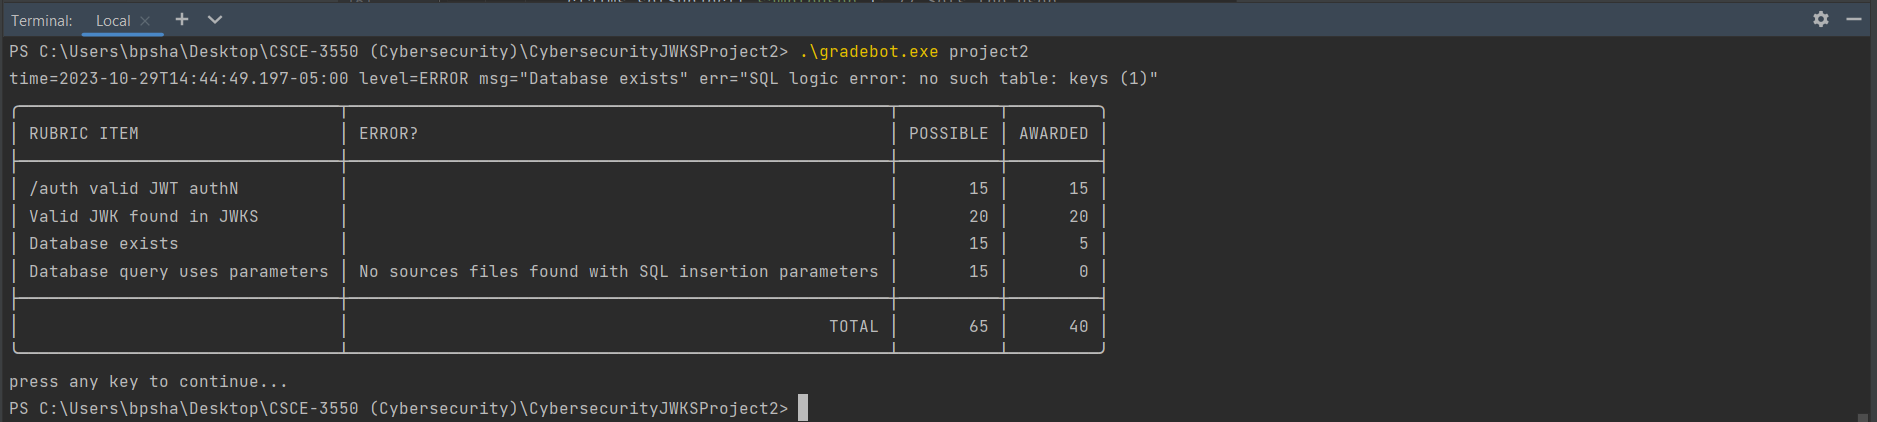
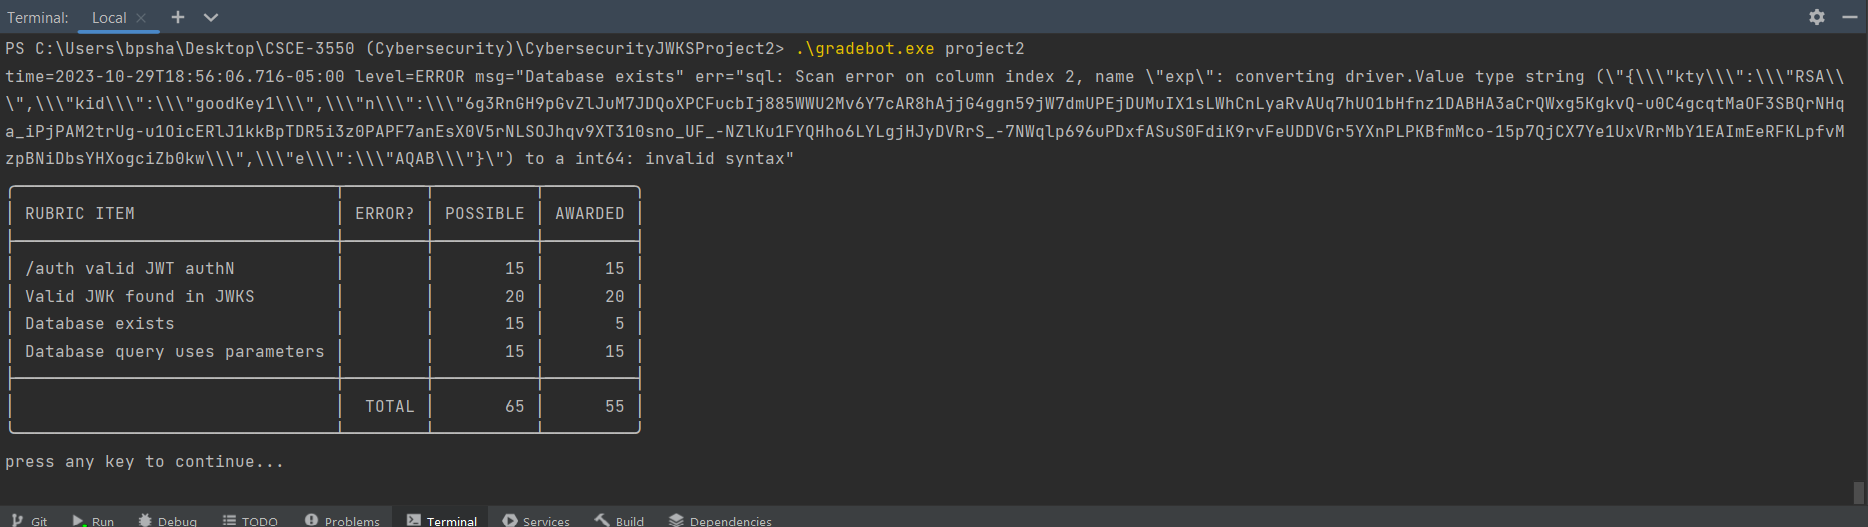
Modifications to creating the database by creating catch areas and private variables.

diff --git a/src/main/java/JWKSServer.java b/src/main/java/JWKSServer.java
@@ -46,7 +46,7 @@ import io.jsonwebtoken.security.Keys;
 import org.jose4j.jwk.PublicJsonWebKey;
 
 public class JWKSServer {
-    //private static final String SECRET_KEY = "your-secret-key"; // Change this to your own secret key
+    //private static final String SECRET_KEY = "your-secret-key"; // Secret key
     private static RsaJsonWebKey jwk = null;
     private static RsaJsonWebKey expiredJWK = null;
     private static Connection c = null; // Private variable for the P2 database connection
@@ -87,7 +87,7 @@ public class JWKSServer {
         server.createContext("/auth", new AuthHandler()); // Creates the authenticator
         server.setExecutor(null); // Creates a default executor
         server.start();
-        System.out.println("Server is running on port 8080....."); // Testing
+        System.out.println("Server is running on port 8080....."); // Testing the server
     }
 
     static class JWKSHandler implements HttpHandler {
@@ -102,8 +102,10 @@ public class JWKSServer {
             // P2: Generates a new key pair
             //RsaJsonWebKey newKeyPair = RsaJwkGenerator.generateJwk(2048);
             //newKeyPair.setKeyId("newKey1");
+
             // P2: Stores the new key pair in the database
             StoreKeyPairInDatabase(jwk);
+            System.out.println("Got past the storing part"); // Testing
             // P2: Generates a JSON Web Key Set (JWKS) response
             //JsonWebKeySet jsonWebKeySet = new JsonWebKeySet(newKeyPair);
             //String jwks = jsonWebKeySet.toJson();
@@ -131,6 +133,7 @@ public class JWKSServer {
             //RsaJsonWebKey keyPair = GetKeyPairFromDatabase(keyId);
             PublicJsonWebKey keyPair = GetKeyPairFromDatabase(keyId);
 
+            // P2: Checks if the key pair is null
             /*if (keyPair == null) {
                 // Handles the case when the key pair is not found in the database
                 h.sendResponseHeaders(404, -1); // 404 means Not Found
@@ -148,7 +151,7 @@ public class JWKSServer {
 
             JsonWebSignature jws = new JsonWebSignature();
             jws.setKeyIdHeaderValue(jwk.getKeyId());
-            jws.setKey(jwk.getPrivateKey());
+            jws.setKey(jwk.getPrivateKey()); // Sets the key as private
 
             // Checks for the expired query parameter
             if (h.getRequestURI().getQuery() != null && h.getRequestURI().getQuery().contains("expired=true")) {
@@ -156,7 +159,7 @@ public class JWKSServer {
                 expirationTime.addSeconds(-10 * 60); // Subtracts 10 minutes
                 claims.setExpirationTime(expirationTime);
                 jws.setKeyIdHeaderValue(expiredJWK.getKeyId());
-                jws.setKey(expiredJWK.getPrivateKey());
+                jws.setKey(expiredJWK.getPrivateKey()); // Sets this expiry as private
             }
 
             jws.setPayload(claims.toJson()); // Sets the payload
@@ -174,7 +177,7 @@ public class JWKSServer {
             h.sendResponseHeaders(200, jwt.length()); // 200 means OK
             OutputStream os = h.getResponseBody();
             os.write(jwt.getBytes());
-            os.close();
+            os.close(); // Closes the output stream so that it does not get in the way
         }
     }
 
@@ -182,13 +185,11 @@ public class JWKSServer {
         // P2 function: This function stores the key pair into the SQLite database
         if (c != null) {
             try {
-                String insertQuery = "INSERT INTO keys (key, exp) VALUES (?)";
-                //String insertQuery = "INSERT INTO keys (kid, key) VALUES (?, ?)";
+                String insertQuery = "INSERT INTO keys (key, exp) VALUES (?, ?)"; // Insert query
                 PreparedStatement preparedStatement = c.prepareStatement(insertQuery);
                 preparedStatement.setString(1, keyPair.getKeyId());
                 preparedStatement.setString(2, keyPair.toJson());
-
-                preparedStatement.executeUpdate();
+                preparedStatement.executeUpdate(); // Executes the insert into the database
                 preparedStatement.close();
                 System.out.println("Key pair stored in the database.");
             } catch (SQLException e) {
@@ -202,10 +203,12 @@ public class JWKSServer {
         // P2 function: This function gets the key pair from the SQLite database
         if (c != null) {
             try {
-                String selectQuery = "SELECT key FROM keys WHERE kid = ?";
-                PreparedStatement preparedStatement = c.prepareStatement(selectQuery);
+                String selectQuery = "SELECT key FROM keys WHERE exp = ?"; // Select query
+                //String selectQuery = "SELECT key FROM keys WHERE key = ?";
+                //String selectQuery = "SELECT key FROM keys WHERE kid = ?";
+                PreparedStatement preparedStatement = c.prepareStatement(selectQuery); // Prepares for the statement to be executed
                 preparedStatement.setString(1, keyId);
-                ResultSet resultSet = preparedStatement.executeQuery();
+                ResultSet resultSet = preparedStatement.executeQuery(); // Executes the select statement
 
                 if (resultSet.next()) {
                     String keyJson = resultSet.getString("key");
@@ -221,126 +224,3 @@ public class JWKSServer {
         return null;
     }
 }
-
- /*   private static void StoreKeyPairInDatabase(KeyPair keyPair) {
-        // P2 function: This function stores the key pair into the database
-        Connection conn = null;
-        try {
-            conn = DriverManager.getConnection("jdbc:sqlite:totally_not_my_privateKeys.db"); // Connects with the db file
-            if (conn != null) {
-                RSAPublicKey publicKey = (RSAPublicKey) keyPair.getPublic();
-                String modulus = Base64.getUrlEncoder().withoutPadding()
-                        .encodeToString(publicKey.getModulus().toByteArray());
-                String exponent = Base64.getUrlEncoder().withoutPadding()
-                        .encodeToString(publicKey.getPublicExponent().toByteArray());
-
-                String insertQuery = "INSERT INTO keys (modulus, exponent) VALUES (?, ?)";
-                try (PreparedStatement pstmt = conn.prepareStatement(insertQuery)) {
-                    pstmt.setString(1, modulus);
-                    pstmt.setString(2, exponent);
-                    pstmt.executeUpdate();
-                }
-            }
-        } catch (SQLException e) {
-            e.printStackTrace();
-        } finally {
-            try {
-                if (conn != null) {
-                    conn.close();
-                }
-            } catch (SQLException e) {
-                e.printStackTrace();
-            }
-        }
-    }
-    private static KeyPair GetKeyPairFromDatabase() {
-        // P2 function: This function gets the key pair from the database
-        Connection conn = null;
-        try {
-            conn = DriverManager.getConnection("jdbc:sqlite:totally_not_my_privateKeys.db"); // Connects with the db file
-            if (conn != null) {
-                String selectQuery = "SELECT modulus, exponent FROM keys";
-                try (Statement stmt = conn.createStatement(); ResultSet rs = stmt.executeQuery(selectQuery)) {
-                    if (rs.next()) {
-                        byte[] modulusBytes = Base64.getUrlDecoder().decode(rs.getString("modulus"));
-                        byte[] exponentBytes = Base64.getUrlDecoder().decode(rs.getString("exponent"));
-
-                        RSAPublicKeySpec publicKeySpec = new RSAPublicKeySpec(new BigInteger(1, modulusBytes), new BigInteger(1, exponentBytes));
-
-                        KeyFactory keyFactory = KeyFactory.getInstance("RSA");
-                        PublicKey publicKey = keyFactory.generatePublic(publicKeySpec);
-
-                        // You need the corresponding private key to create a full KeyPair,
-                        // but since this is just for verifying JWT, you only need the public key.
-                        return new KeyPair(publicKey, null);
-                    }
-                } catch (NoSuchAlgorithmException e) { // This catch clause is here for getInstance()
-                    throw new RuntimeException(e);
-                }
-            }
-        } catch (SQLException | InvalidKeySpecException e) { // Catch clauses for these two things
-            e.printStackTrace();
-        } finally {
-            try {
-                if (conn != null) {
-                    conn.close();
-                }
-            } catch (SQLException e) {
-                e.printStackTrace();
-            }
-        }
-        return null;
-    }
-}*/
-
-
-/*import java.sql.Connection;
-import java.sql.DriverManager;
-import java.sql.ResultSet;
-import java.sql.SQLException;
-import java.sql.Statement;
-
-public class JWKSServer {
-    public static void main(String[] args)
-    {
-        Connection connection = null;
-        try
-        {
-            // create a database connection
-            connection = DriverManager.getConnection("jdbc:sqlite:sample.db");
-            Statement statement = connection.createStatement();
-            statement.setQueryTimeout(30);  // set timeout to 30 sec.
-
-            statement.executeUpdate("drop table if exists person");
-            statement.executeUpdate("create table person (id integer, name string)");
-            statement.executeUpdate("insert into person values(1, 'leo')");
-            statement.executeUpdate("insert into person values(2, 'yui')");
-            ResultSet rs = statement.executeQuery("select * from person");
-            while(rs.next())
-            {
-                // read the result set
-                System.out.println("name = " + rs.getString("name"));
-                System.out.println("id = " + rs.getInt("id"));
-            }
-        }
-        catch(SQLException e)
-        {
-            // if the error message is "out of memory",
-            // it probably means no database file is found
-            System.err.println(e.getMessage());
-        }
-        finally
-        {
-            try
-            {
-                if(connection != null)
-                    connection.close();
-            }
-            catch(SQLException e)
-            {
-                // connection close failed.
-                System.err.println(e.getMessage());
-            }
-        }
-    }
-}*/
